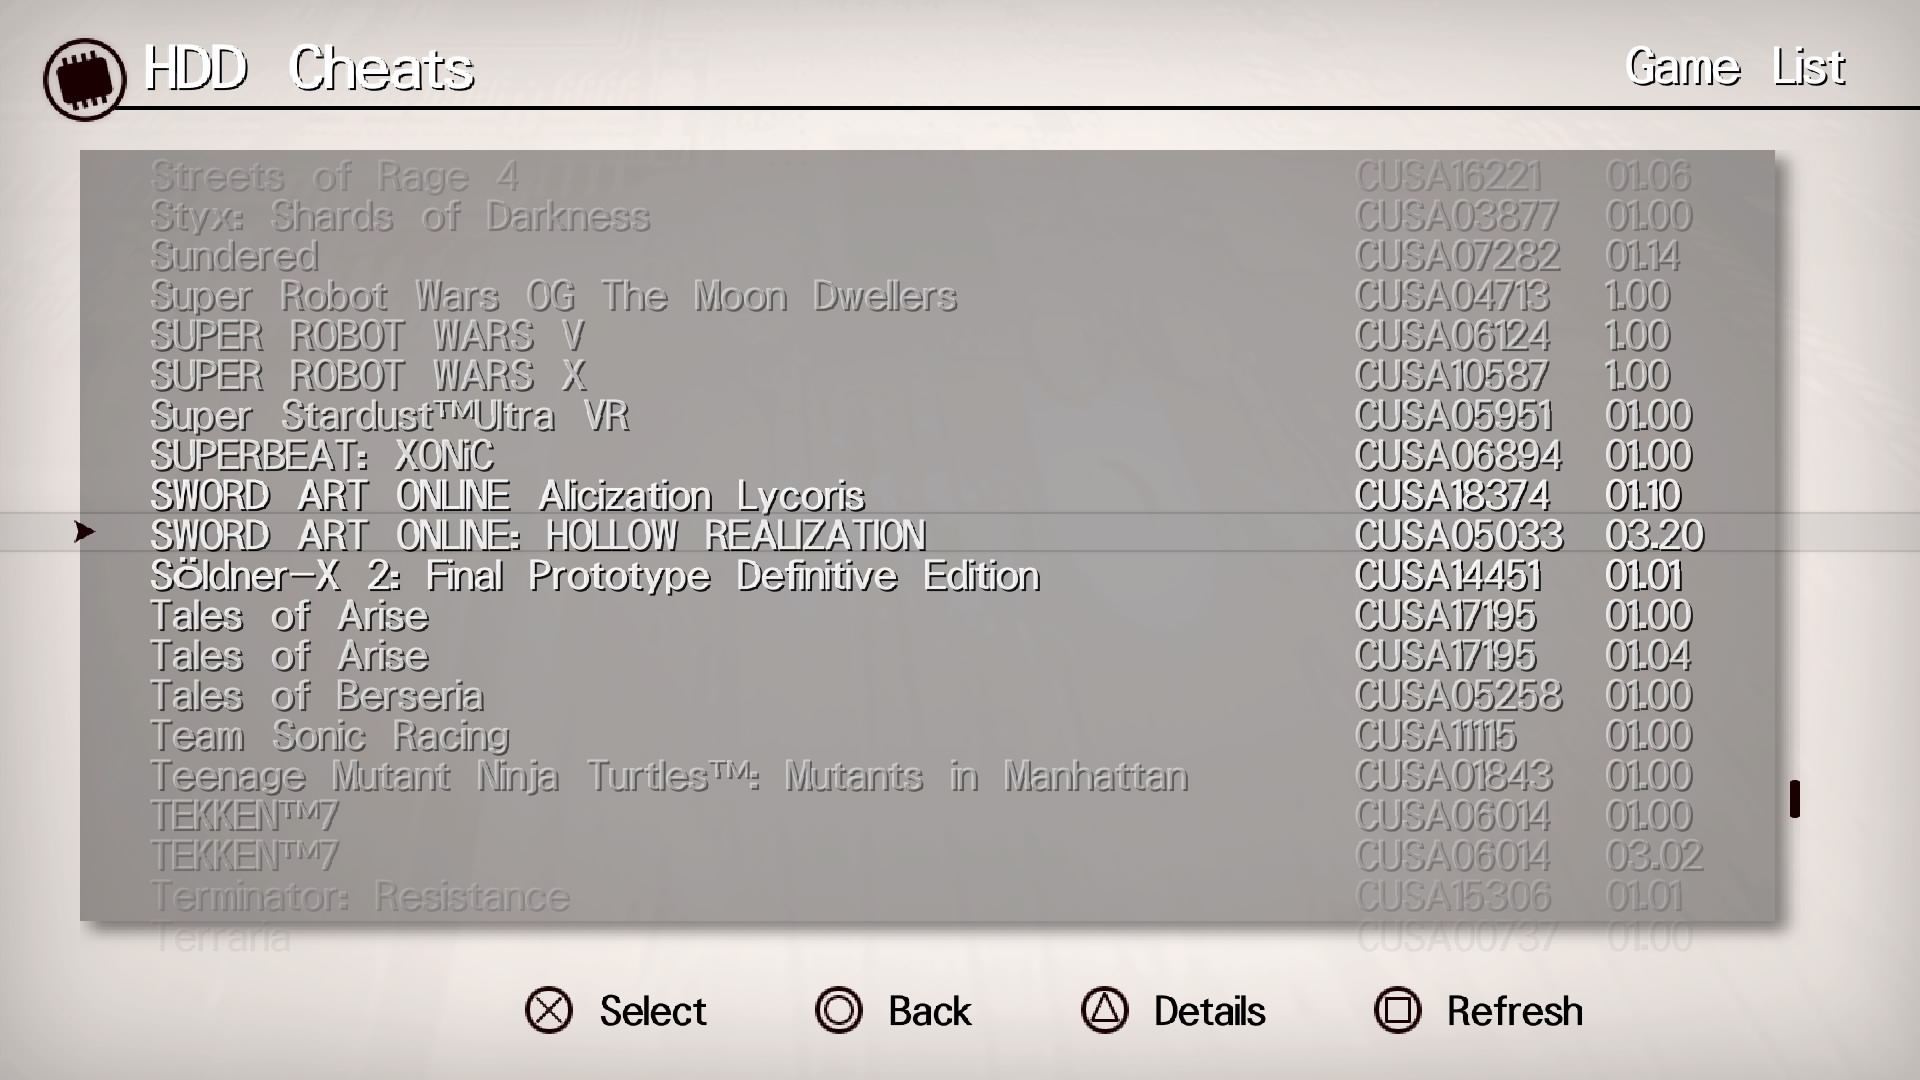
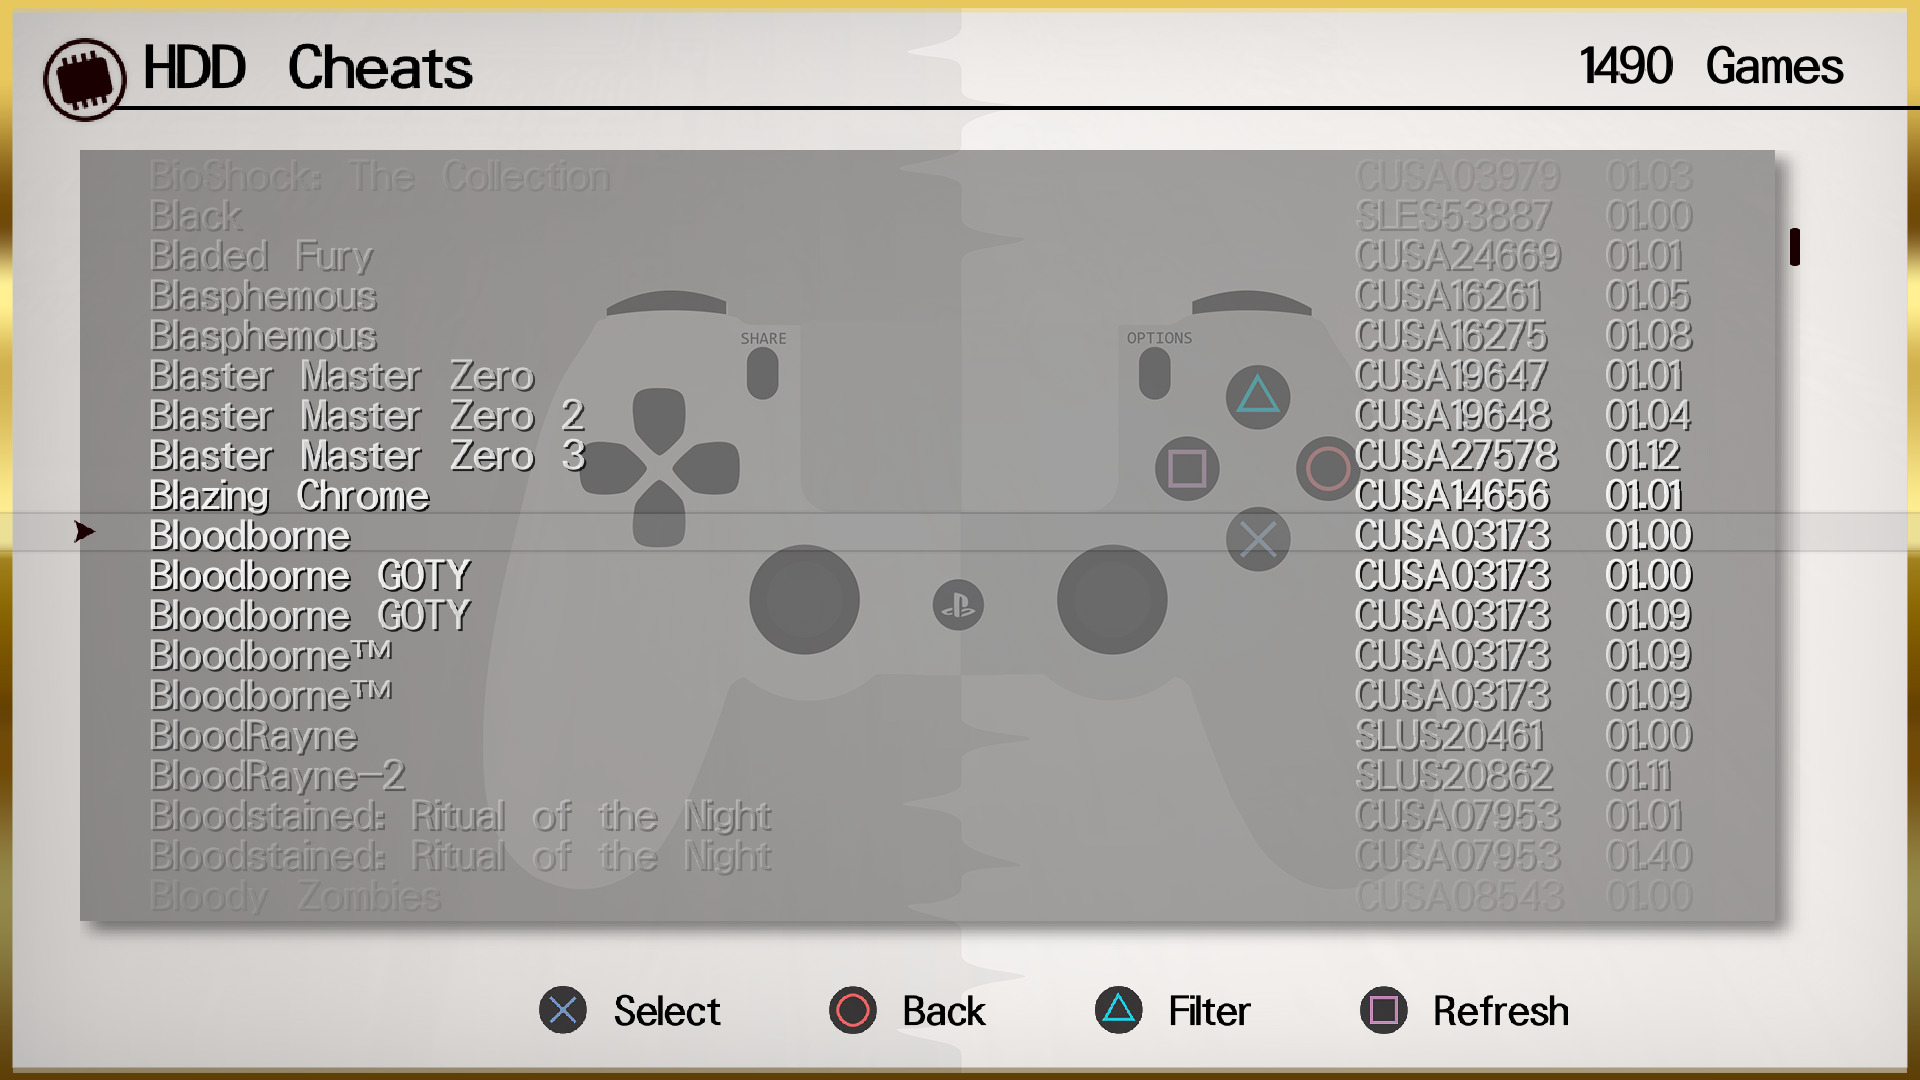
Readme: update screenshots  (#62)
* Update screenshots
* Update README.md

diff --git a/README.md b/README.md
@@ -7,6 +7,15 @@ An open-source PlayStation 4 cheat code manager for GoldHEN.
 
 ![image](./docs/screenshots/main-menu.jpg)
 
+<details>
+<summary>Screenshots Gallery (Click to Expand)</summary>
+
+![image](./docs/screenshots/goldcheats-xmb.jpg)
+![image](./docs/screenshots/game-list.jpg)
+![image](./docs/screenshots/hdd-patch.jpg)
+
+</details>
+
 **GoldHEN Cheats Manager** is a simple PS4 homebrew application that manages GoldHEN cheat codes files.
 
 # Download
@@ -38,7 +47,7 @@ It will open the context menu on the screen. Press ![O button](https://github.co
 
 # Online Database
 
-The application also provides direct access to the [Online Cheat database](https://github.com/GoldHEN/GoldHEN_Cheat_Repository), the official GoldHEN repository of cheat files for PlayStation 4 games.
+The application also provides direct access to the Online [Cheat](https://github.com/GoldHEN/GoldHEN_Cheat_Repository) and [Patch](https://github.com/GoldHEN/GoldHEN_Patch_Repository) databases, the official GoldHEN repositories of cheats and custom game patches for PlayStation 4 games.
 
 # Credits
 
@@ -75,7 +84,9 @@ This will allow you to use `make run` and send `eboot.bin` directly to the [PS4L
 To enable debug logging, build it with `make DEBUGLOG=1`. The application will send debug messages to
 UDP multicast address `239.255.0.100:30000`. To receive them you can use [socat][] on your computer:
 
-    $ socat udp4-recv:30000,ip-add-membership=239.255.0.100:0.0.0.0 -
+```
+$ socat udp4-recv:30000,ip-add-membership=239.255.0.100:0.0.0.0 -
+```
 
 # License
 
